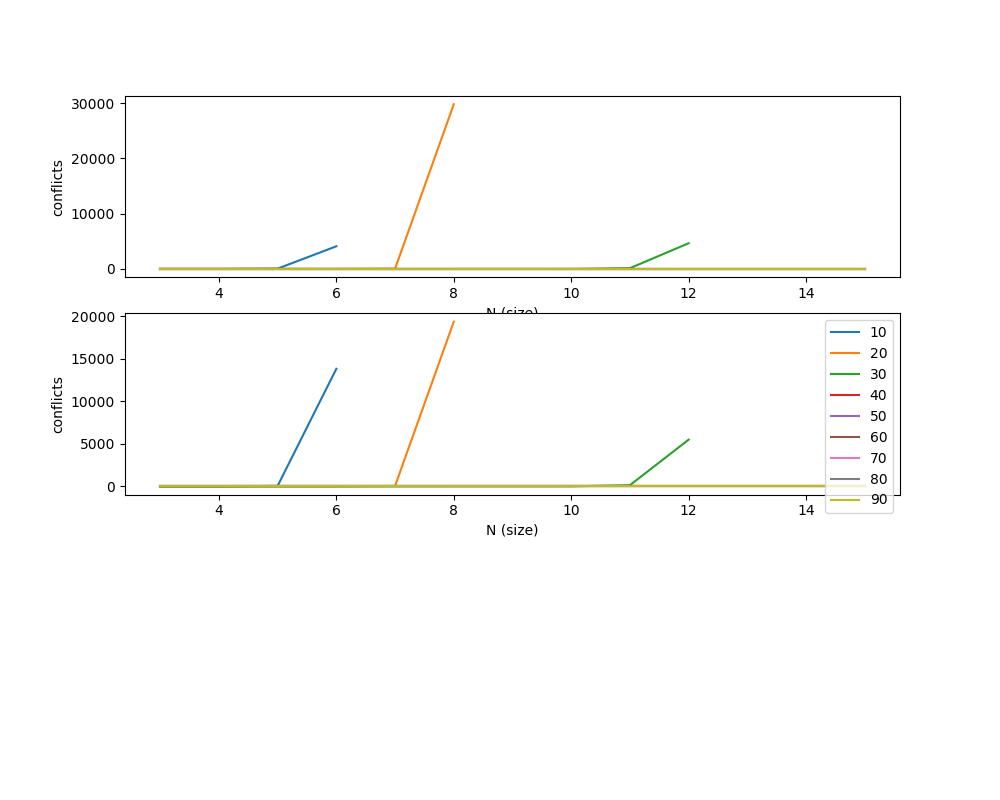
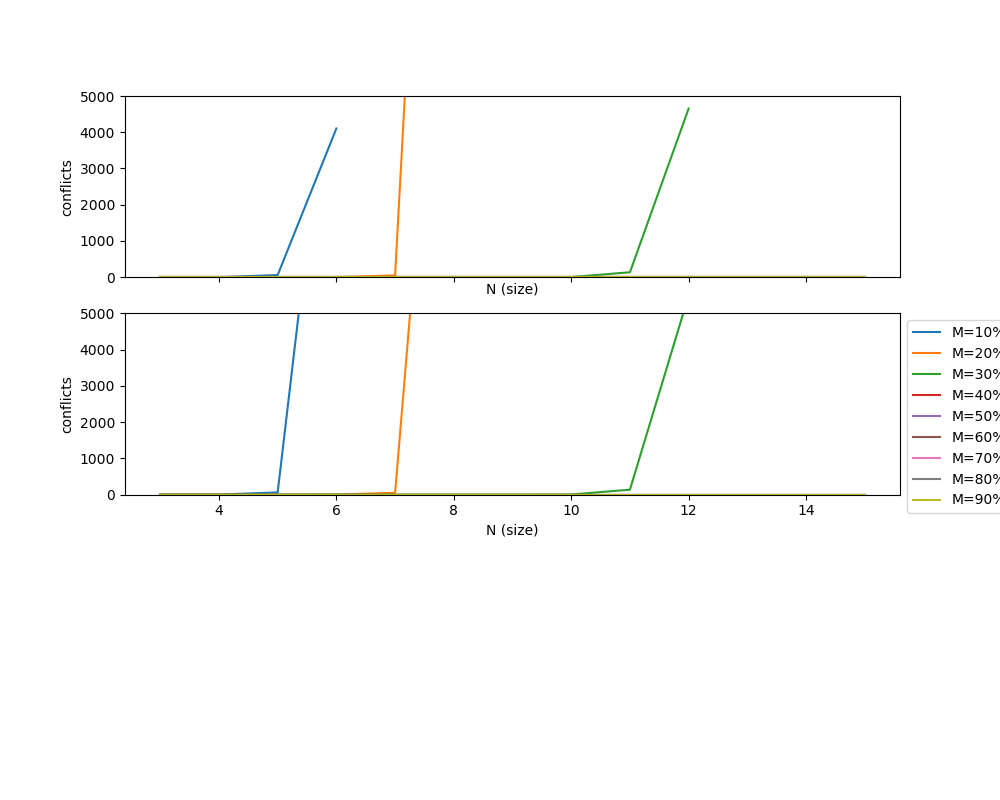
Updated README.md and added installation fle

diff --git a/src/sudoku3d_alt_generator.py b/src/sudoku3d_alt_generator.py
@@ -6,21 +6,21 @@ from sudoku3d import Sudoku3D
 Alternative generator for Sudoku3D objects of size N*N*N where M cells are filled.
 '''
 class Sudoku3DAlternativeGenerator:
-	def __init__(self, N, M):
-		self.N = N
-		self.M = M
+    def __init__(self, N, M):
+        self.N = N
+        self.M = M
 
     '''
     Shift the sequence one to the right. The last element will appear at the start.
     @param list<int> base
     @return list<int>
     '''
-	def shift(self, base):
-		# Copy the original list (I know, the notation is weird).
-		perm = base[:]
-		# Pop and append the first element to the list.
-		perm.append(perm.pop(0))
-		return perm
+    def shift(self, base):
+        # Copy the original list (I know, the notation is weird).
+        perm = base[:]
+        # Pop and append the first element to the list.
+        perm.append(perm.pop(0))
+        return perm
 
     '''
     Get the block given a list of blocks and a block number.
@@ -28,48 +28,48 @@ class Sudoku3DAlternativeGenerator:
     @param int number
     @return list<int>|None
     '''
-	def getBlock(self, blocks, number):
-		for block in blocks:
-			if block[0] == number:
-				return block
-		return None
+    def getBlock(self, blocks, number):
+        for block in blocks:
+            if block[0] == number:
+                return block
+        return None
 
     '''
     Delete N**3 - M cells for the given Sudoku3D.
     @param Sudoku3D sudoku
     '''
-	def deleteCells(self, sudoku):
-		cells = list(sudoku.getCellIterator())
-		for i in range(self.N**3 - self.M):
-			cell = random.choice(cells)
-			del sudoku.cells[cell]
-			cells.remove(cell)
+    def deleteCells(self, sudoku):
+        cells = list(sudoku.getCellIterator())
+        for i in range(self.N**3 - self.M):
+            cell = random.choice(cells)
+            del sudoku.cells[cell]
+            cells.remove(cell)
 
     '''
     Generate the Sudoku3D.
     @return Sudoku3D
     '''
-	def generate(self):
-		sudoku = Sudoku3D(self.N)
-		base = list(range(1, self.N + 1))
-		random.shuffle(base)
-		rows = []
-		perm = base
-		for i in range(self.N):
-			rows.append(perm)
-			perm = self.shift(perm)
-		random.shuffle(rows)
-		baseBlock = list(range(1, self.N + 1))
-		random.shuffle(baseBlock)
-		blocks = []
-		block = baseBlock
-		for i in range(self.N):
-			blocks.append(block)
-			block = self.shift(block)
-		for x in range(self.N):
-			for y in range(self.N):
-				block = self.getBlock(blocks, rows[x][y])
-				for z in range(self.N):
-					sudoku.fill(x + 1, y + 1, z + 1, block[z])
-		self.deleteCells(sudoku)
-		return sudoku
+    def generate(self):
+        sudoku = Sudoku3D(self.N)
+        base = list(range(1, self.N + 1))
+        random.shuffle(base)
+        rows = []
+        perm = base
+        for i in range(self.N):
+            rows.append(perm)
+            perm = self.shift(perm)
+        random.shuffle(rows)
+        baseBlock = list(range(1, self.N + 1))
+        random.shuffle(baseBlock)
+        blocks = []
+        block = baseBlock
+        for i in range(self.N):
+            blocks.append(block)
+            block = self.shift(block)
+        for x in range(self.N):
+            for y in range(self.N):
+                block = self.getBlock(blocks, rows[x][y])
+                for z in range(self.N):
+                    sudoku.fill(x + 1, y + 1, z + 1, block[z])
+        self.deleteCells(sudoku)
+        return sudoku

diff --git a/src/plot_drawer.py b/src/plot_drawer.py
@@ -2,26 +2,44 @@ import matplotlib
 import matplotlib.pyplot as plt
 from compute_statistics import *
 
+'''
+Apply the ylimit, given a min and a max boundary.
+@param float|None ylim_min
+@param float|None ylim_max
+'''
 def apply_ylimit(ylim_min=None, ylim_max=None):
     if ylim_min is not None:
         plt.gca().set_ylim(bottom=ylim_min)
     if ylim_max is not None:
         plt.gca().set_ylim(top=ylim_max)
 
+'''
+Draw the plot, given x and y points.
+@param dict<bool, dict<int, list<float>>> different values for N, indexed by smart and M
+@param dict<bool, dict<int, list<float>>> different values for [plot_name], indexed by smart and M
+@param str plot_name
+@param float|None ylim_min
+@param float|None ylim_max
+@param bool show
+'''
 def draw_plot(data_x, data_y, plot_name, ylim_min=None, ylim_max=None, show=False):
     plt.clf()
     plt.close()
     fig = plt.figure(figsize=(10, 8))
     plt.title("%s" % (plot_name))
-    plt.ylabel(plot_name)
+    plt.legend(ncol=1)
     for smart in [True, False]:
-        subplt = plt.subplot(311 if smart else 312, sharex=None if smart else subplt)
+        share = None if smart else subplt
+        subplt = plt.subplot(311 if smart else 312,
+            sharex=share, sharey=share)
+        if smart:
+            plt.setp(subplt.get_xticklabels(), visible=False)
         apply_ylimit(ylim_min, ylim_max)
         plt.xlabel('N (size)')
         plt.ylabel(plot_name)
         for M in sorted(data_x[smart].keys()):
-            plt.plot(data_x[smart][M], data_y[smart][M], label="%s" % (M,))
-    plt.legend()
+            plt.plot(data_x[smart][M], data_y[smart][M], label="M=%s%%" % (M,))
+    plt.legend(ncol=1, bbox_to_anchor=(1,1))
     if show:
         plt.show()
     return fig

diff --git a/src/export_plots.py b/src/export_plots.py
@@ -1,11 +1,20 @@
 import sys
+from collections import defaultdict
 from compute_statistics import *
 from plot_drawer import draw_plot
+
+ylims_min = defaultdict(lambda: None)
+ylims_max = defaultdict(lambda: None)
+ylims_max['restarts'] = 5.0
+ylims_max['conflicts'] = 5000.0
+ylims_max['cpu_time'] = 0.025
 
 output_variables = get_output_variables()
 filename = sys.argv[1]
 aggregate = aggregate_statistics(filename)
 for output_variable in output_variables:
+    ylim_min = ylims_min[output_variable]
+    ylim_max = ylims_max[output_variable]
     data_x, data_y = compute_plot_data(aggregate, output_variable)
-    fig = draw_plot(data_x, data_y, output_variable)
+    fig = draw_plot(data_x, data_y, output_variable, ylim_min, ylim_max)
     fig.savefig('doc/plots/%s.png' % (output_variable,))

diff --git a/README.md b/README.md
@@ -4,3 +4,30 @@ sudoku3d_generator: Generate a new sudoku, save it in sudokus (or test_sudokus)
 sudoku3d_dimecs_converter: Read a sudoku from a file (in sudokus or test_sudoku), convert to dimecs and save in (test_)sudokus_dimecs
 sudoku3d_dimecs_solver: Execute Minisat for file(s), parse results and save in experimental_results
 
+## Installation
+
+First, make sure that *cmake* and *zlib* are installed. Then, run the following command in bash:
+
+```bash
+./install
+```
+
+## How to use
+
+To run the experiments:
+
+```bash
+./run_experiments [-h] [--k K] [--t T] nmin nmax mperc [mperc ...]
+```
+
+To draw a plot of a given variable from a result CSV file:
+
+```bash
+./plot [-h] [--ylim-min YLIM_MIN] [--ylim-max YLIM_MAX] filename variable
+```
+
+To export the plots as images for every variable from a result CSV file:
+
+```bash
+./export_plots filename
+```
